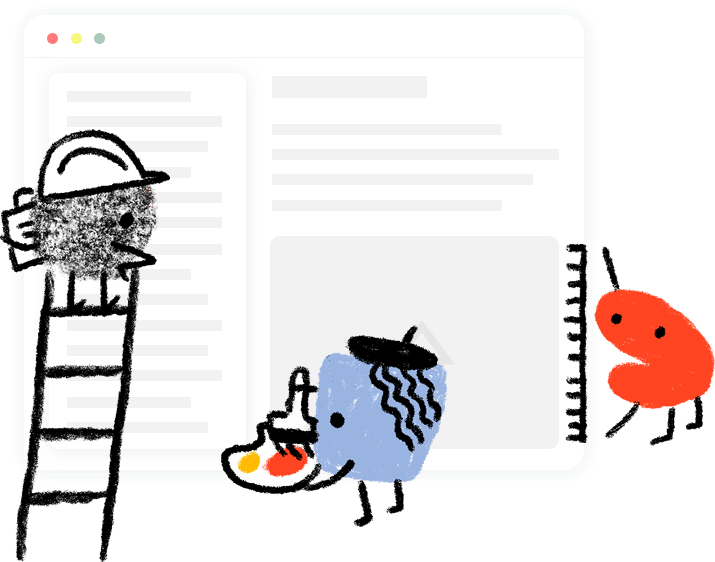
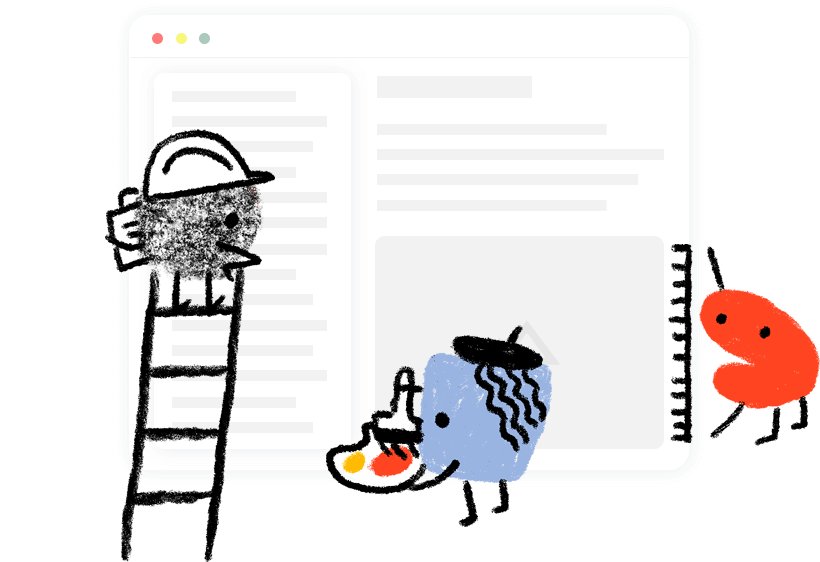
Update the hero image canvas

diff --git a/src/static/css/index.css b/src/static/css/index.css
@@ -107,13 +107,6 @@ p {
   font-family: 'Poppins', sans-serif;
 }
 
-.intro-image {
-  background-image: url(/static/images/home-hero.png);
-  background-size: cover;
-  height: 67.5vw;
-  width: 86vw;
-}
-
 .intro-image-wrapper {
   -ms-grid-column: 2;
   grid-area: image;
@@ -648,7 +641,6 @@ p {
   .intro-image-wrapper {
     margin: 3rem 0;
     max-width: 100vw;
-    margin-right: -13vw;
   }
 
   .intro-image-wrapper svg {

diff --git a/src/templates/base/2020/index.html b/src/templates/base/2020/index.html
@@ -71,8 +71,8 @@
       <div>{{ self.mission() }}</div>
     </div>
     <div class="intro-image-wrapper">
-      <svg viewBox="0 0 47 16">
-        <text x="0" y="15">{{ year }}</text>
+      <svg viewBox="0 0 56 16">
+        <text x="8" y="15">{{ year }}</text>
       </svg>      
       <img src="/static/images/home-hero.png" alt="">
     </div>

diff --git a/src/templates/base/2019/index.html b/src/templates/base/2019/index.html
@@ -37,8 +37,8 @@
       </a>
     </div>
     <div class="intro-image-wrapper">
-      <svg viewBox="0 0 42 16">
-        <text x="0" y="15">{{ year }}</text>
+      <svg viewBox="0 0 50 16">
+        <text x="7" y="15">{{ year }}</text>
       </svg>      
       <img src="/static/images/home-hero.png" alt="">
     </div>

diff --git a/src/static/css/ebook.css b/src/static/css/ebook.css
@@ -42,7 +42,6 @@
   border-radius: 10px;
   display: block;
   margin: 20px 0;
-  padding-left: 10.5%;
   width: 80%;
   height: auto;
 }
